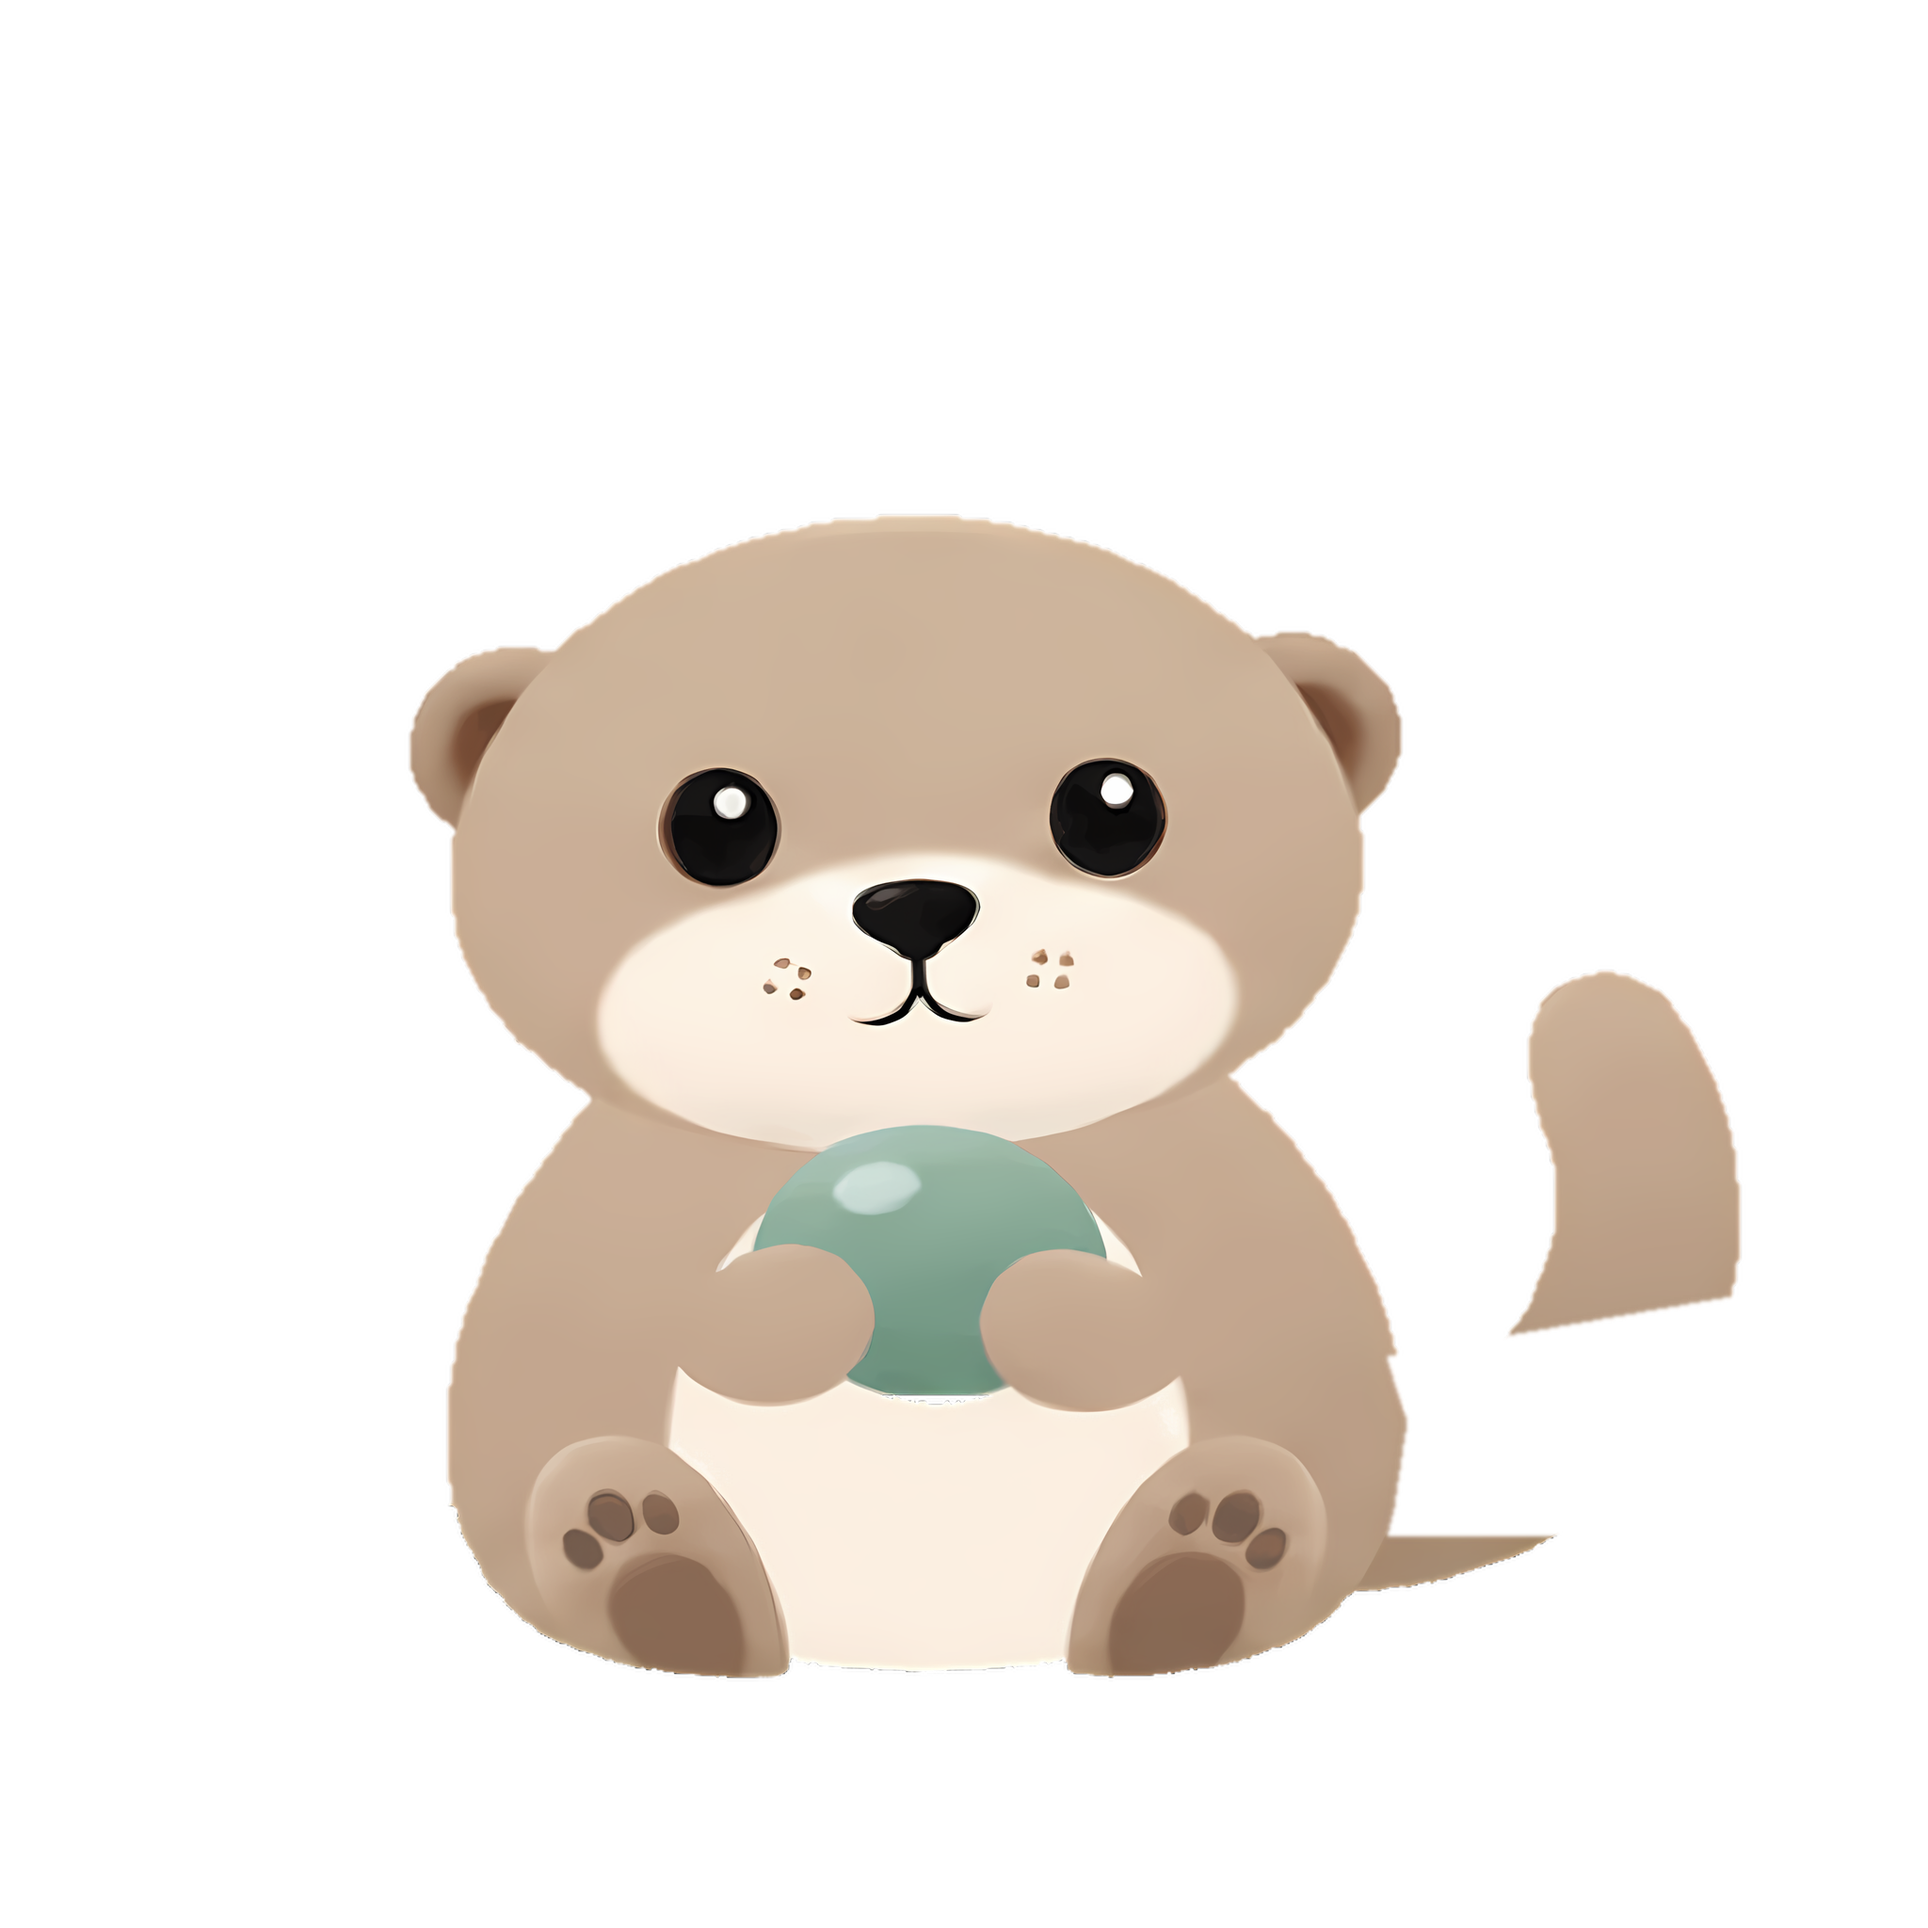
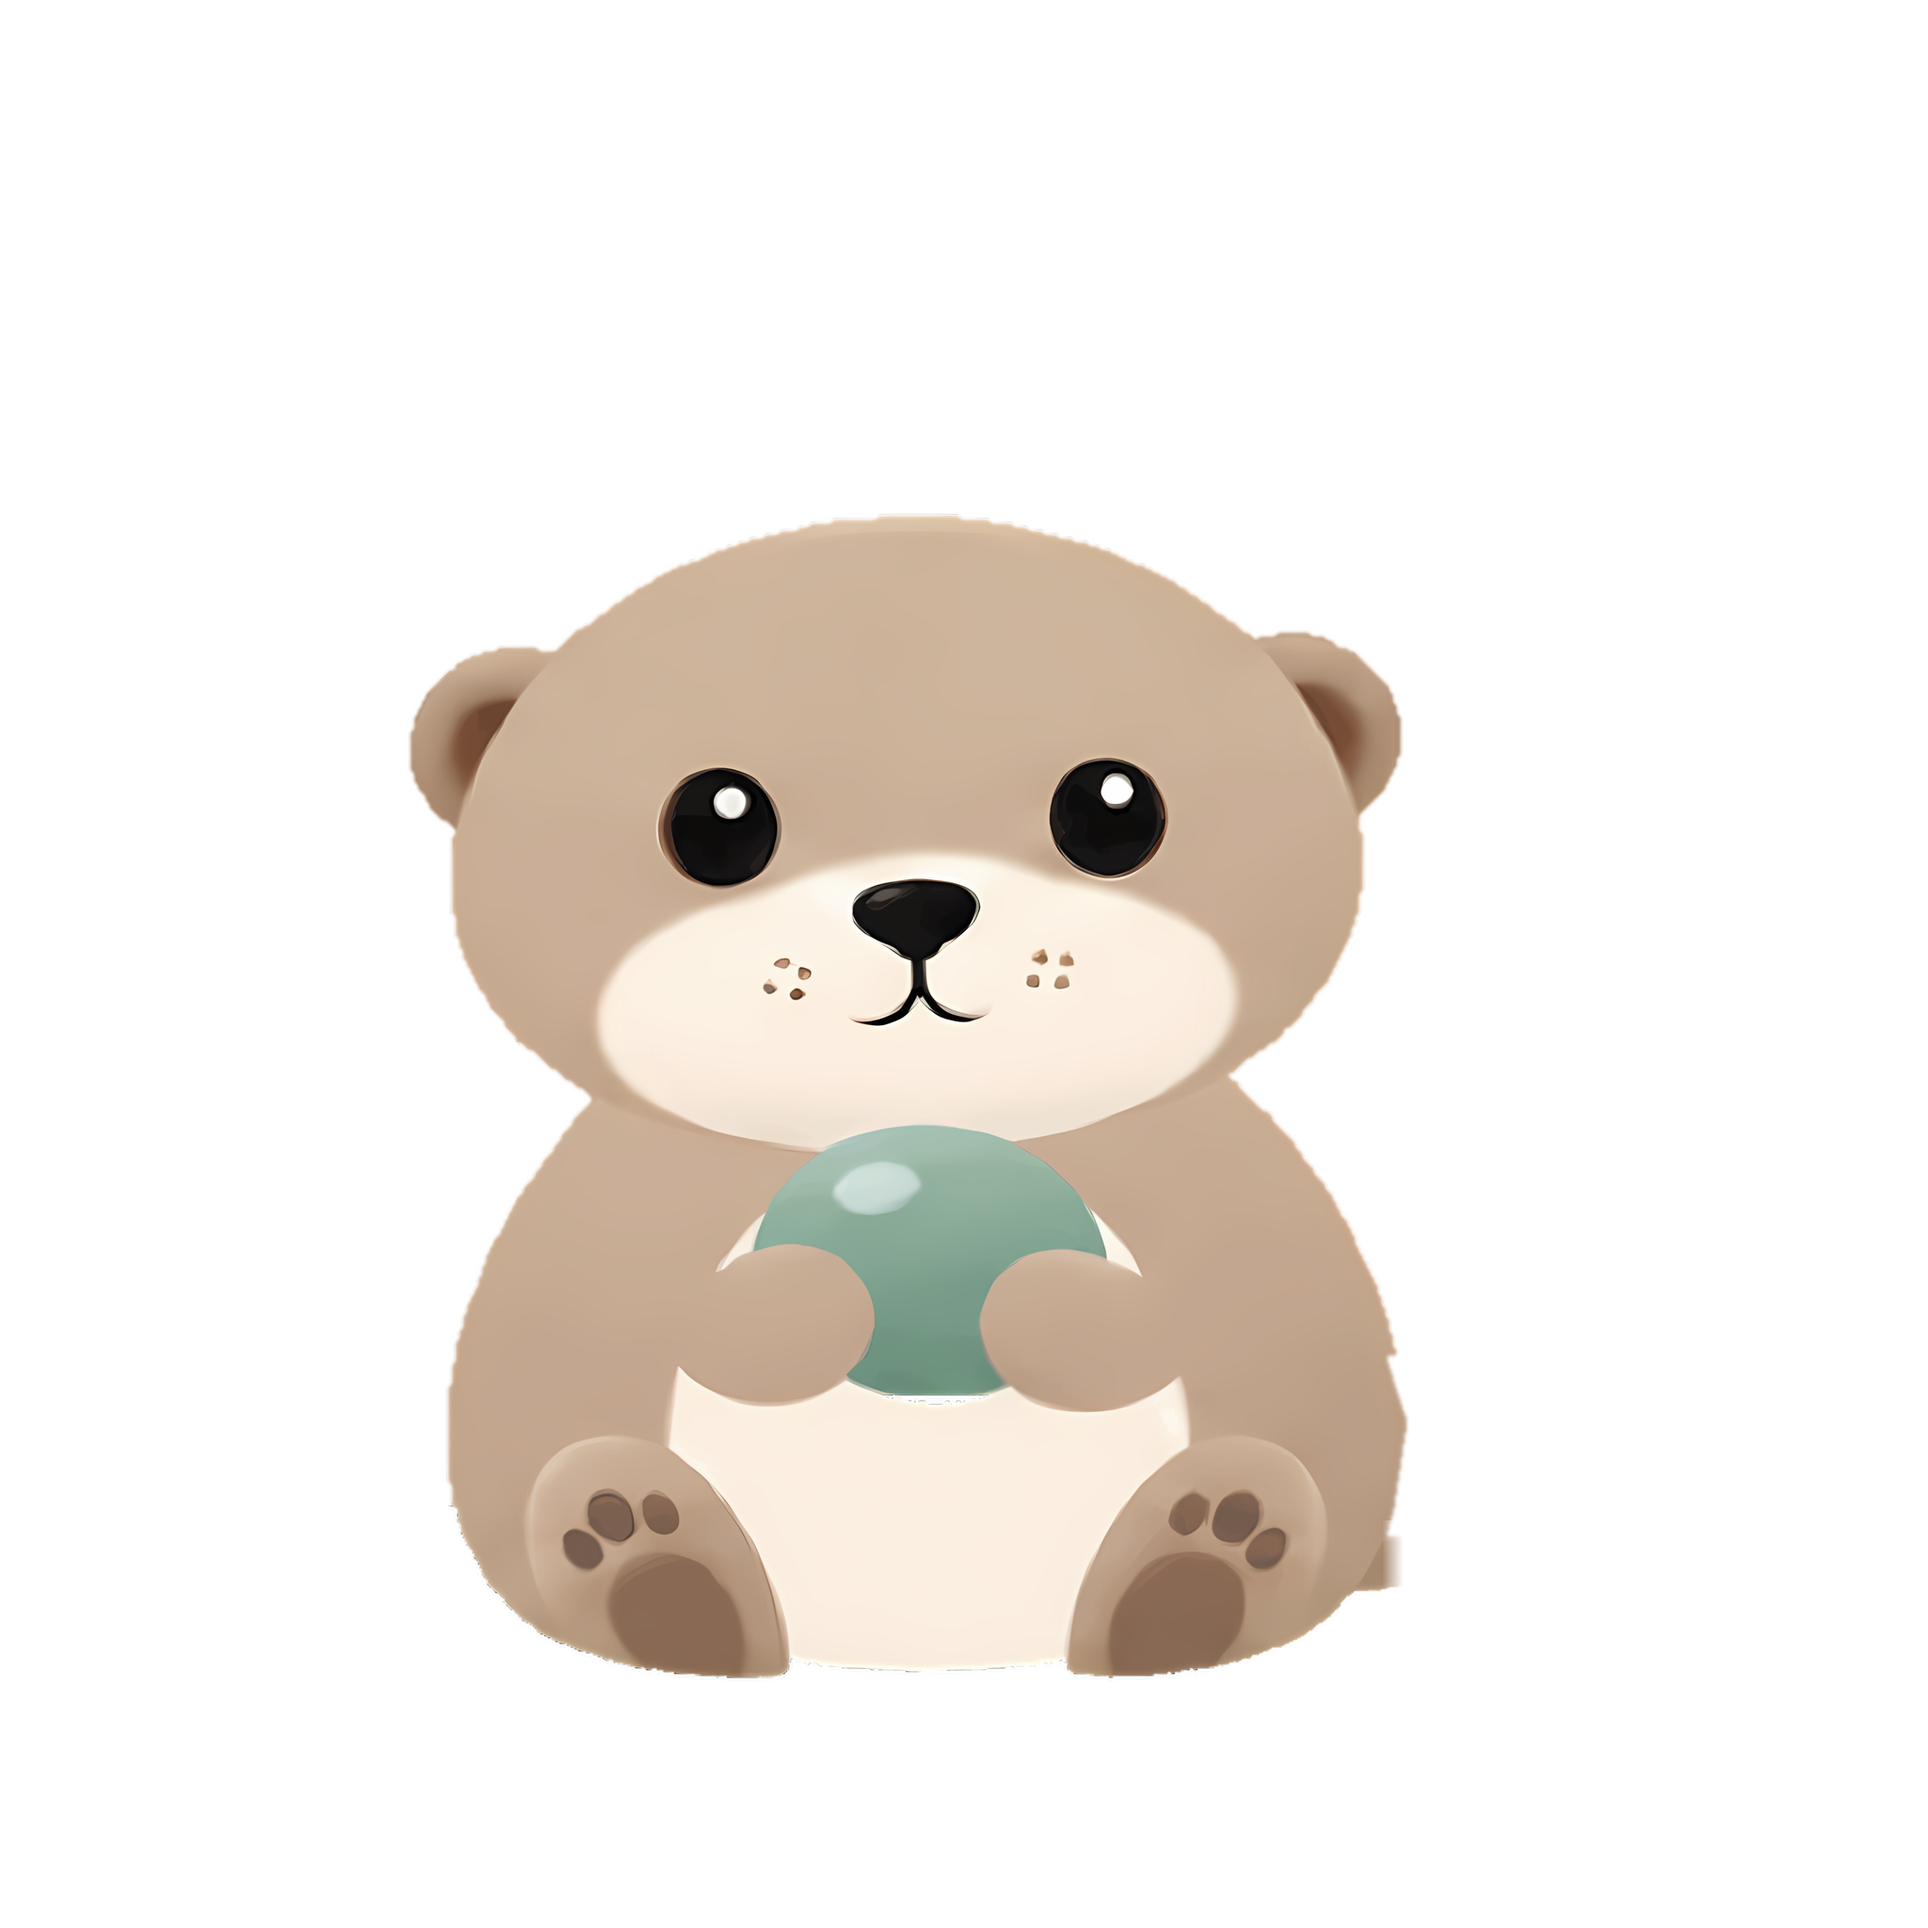
Make the upright otter's tail sway as one piece
Only the middle of the tail was in the moving layer; its tip and the strip
along the floor were painted into the body, so the middle pulled away from
both and the old cut lines showed. scripts/fix_upright_tail.py moves the
whole tail into one layer, repaints the cut lines and the dark upscaling
fringe from the fur beside them, and the tail now swings from its root.

Changed region(s): [[0.7812, 0.5, 0.9062, 0.6875], [0.7188, 0.7812, 0.8125, 0.8438]]

diff --git a/landing/src/components/otter/UprightOtter.tsx b/landing/src/components/otter/UprightOtter.tsx
@@ -3,7 +3,8 @@
 /**
  * Written by Havi (@Havishea) for the Ayin team and copied from
  * https://github.com/Havishea/Ayin. We changed the default asset folder, moved the fur tint into useMemo to satisfy
- * our lint rules, and draw the layers at a fixed size so 2048 px art stays sharp.
+ * our lint rules, and draw the layers at a fixed size so 2048 px art stays sharp. On the landing page the whole
+ * tail is one layer that swings from its root, so the pivot moved.
  *
  * UprightOtter: the otter sitting up, holding its stone. Shown while you ask
  * something or while Ayin is explaining a task.
@@ -29,8 +30,8 @@ const SIZE = 1024;
 const MAX_PIXELS = 2048;
 /** The otter breathes and leans from the middle of its seat. */
 const SEAT = { x: 512, y: 880 };
-/** The tail swings from where it meets the hip. */
-const TAIL_PIVOT = { x: 770, y: 790 };
+/** The tail swings from its root, where it leaves the hip along the floor (see scripts/fix_upright_tail.py). */
+const TAIL_PIVOT = { x: 739, y: 830 };
 
 const loadImage = (src: string) =>
   new Promise<HTMLImageElement>((resolve, reject) => {

diff --git a/landing/scripts/fix_upright_tail.py b/landing/scripts/fix_upright_tail.py
@@ -1,0 +1,103 @@
+"""Rebuild the upright otter's tail layer so the whole tail sways as one piece.
+
+In the original layers, only the middle of the tail was in upright-tail.png; its tip and the
+strip along the floor were painted into upright-body.png. When the middle swayed it pulled
+away from both, and the cut edges had a dark fringe from upscaling, so the tail looked like
+three pieces. This moves every tail pixel right of the body into the tail layer, heals the
+old cuts, and recolours the dark fringe from the fur next to it.
+
+    python scripts/fix_upright_tail.py    # needs numpy, scipy and pillow; run once, on the original layers
+
+The tail now swings from its root at the hip, so UprightOtter's TAIL_PIVOT moved to match.
+"""
+import os
+
+import numpy as np
+from PIL import Image
+from scipy import ndimage
+
+HERE = os.path.dirname(os.path.abspath(__file__))
+OTTER = os.path.join(HERE, "..", "public", "otter")
+
+# In the 2048 px art: where the tail's tip and floor strip are in the body layer.
+TIP = {"x": 1495, "y": (1000, 1450)}  # the tail tip, painted into the body layer
+STRIP_Y = (1615, 1705)
+STUB_X = 1440  # the tail strip starts under the leg here
+FADE = (1468, 1490)  # the body's stub fades out across this range, over the moving tail
+# Under the hip the tail overlaps the body, so no gap opens when it sways. That overlap must not
+# reach above the point where the tail's inner edge meets the body, or it pokes out.
+HIP_TAB = {"x": 1500, "y": 1490}
+
+
+def load(name):
+    return np.asarray(Image.open(os.path.join(OTTER, name)).convert("RGBA")).astype(np.float64) / 255
+
+
+def over(top, bottom):
+    a = top[..., 3:] + bottom[..., 3:] * (1 - top[..., 3:])
+    rgb = (top[..., :3] * top[..., 3:] + bottom[..., :3] * bottom[..., 3:] * (1 - top[..., 3:])) / np.maximum(a, 1e-6)
+    return np.concatenate([rgb, a], axis=-1)
+
+
+def defringe(img, region):
+    """Give soft edge pixels the colour of the nearest solid pixel, so edges fade out instead of going dark."""
+    solid = img[..., 3] > 0.98
+    _, (iy, ix) = ndimage.distance_transform_edt(~solid, return_indices=True)
+    soft = region & (img[..., 3] > 0) & ~solid
+    img[soft, :3] = img[iy[soft], ix[soft], :3]
+    return img
+
+
+def main():
+    tail, body = load("upright-tail.png"), load("upright-body.png")
+    h, w = body.shape[:2]
+    y, x = np.mgrid[0:h, 0:w]
+
+    # Every body pixel right of the body's edge is tail; so is the floor strip back to under the leg.
+    strip = (y >= STRIP_Y[0]) & (y <= STRIP_Y[1]) & (x >= STUB_X)
+    tip = (x >= TIP["x"]) & (y >= TIP["y"][0]) & (y < TIP["y"][1])
+    take = tip | strip
+    part = body.copy()
+    part[~take, 3] = 0
+    whole = over(tail, part)
+
+    # Heal the old cuts: thin dips in coverage inside the tail are filled from the fur beside them.
+    a = whole[..., 3]
+    closed = ndimage.grey_closing(a, size=(11, 11))
+    seam = (closed - a > 0.08) & (x >= STUB_X)
+    whole[seam, 3] = closed[seam]
+    whole = defringe(whole, x >= STUB_X - 20)
+    # The old cuts also left thin lines, darker or lighter than the fur on both sides. Repaint them
+    # from the fur around them. (The tail's own shading changes slowly, so it is left alone.)
+    whole[..., 3] = np.where(whole[..., 3] > 0.9, np.maximum(whole[..., 3], closed), whole[..., 3])
+    inside = ndimage.binary_erosion(whole[..., 3] > 0.9, iterations=4)
+    lum = whole[..., :3] @ np.array([0.299, 0.587, 0.114])
+    smooth = np.stack([ndimage.median_filter(whole[..., c], size=15) for c in range(3)], axis=-1)
+    line = inside & (np.abs(lum - smooth @ np.array([0.299, 0.587, 0.114])) > 0.03)
+    line = ndimage.binary_dilation(line, iterations=2) & inside
+    whole[line, :3] = smooth[line]
+    # Stray dark, white and yellow pixels where the old cut met the edge: the fur here has none.
+    lum = whole[..., :3] @ np.array([0.299, 0.587, 0.114])
+    r, g, b = whole[..., 0], whole[..., 1], whole[..., 2]
+    odd = (lum < 0.45) | (lum > 0.85) | (g > r) | (b < 0.5 * r)
+    stray = (whole[..., 3] > 0) & odd & (x >= STUB_X - 20)
+    ok = (whole[..., 3] > 0.9) & ~stray
+    _, (iy, ix) = ndimage.distance_transform_edt(~ok, return_indices=True)
+    whole[stray, :3] = whole[iy[stray], ix[stray], :3]
+    whole[(x < HIP_TAB["x"]) & (y < HIP_TAB["y"]), 3] = 0
+    # The healing must not grow the tail outside its drawing.
+    outside = ndimage.binary_dilation(a > 0.02, iterations=2)
+    whole[~outside, 3] = 0
+
+    # The body keeps the leg and a short stub of tail under the hip, fading out over the moving tail.
+    fade = np.clip((FADE[1] - x) / (FADE[1] - FADE[0]), 0, 1)
+    body[..., 3] = np.where(strip, body[..., 3] * fade, np.where(tip, 0, body[..., 3]))
+    body = defringe(body, (x >= 1300) & (y >= 1550))
+
+    for name, img in (("upright-tail.png", whole), ("upright-body.png", body)):
+        Image.fromarray(np.round(img * 255).astype(np.uint8), "RGBA").save(os.path.join(OTTER, name), optimize=True)
+        print("wrote", name)
+
+
+if __name__ == "__main__":
+    main()
